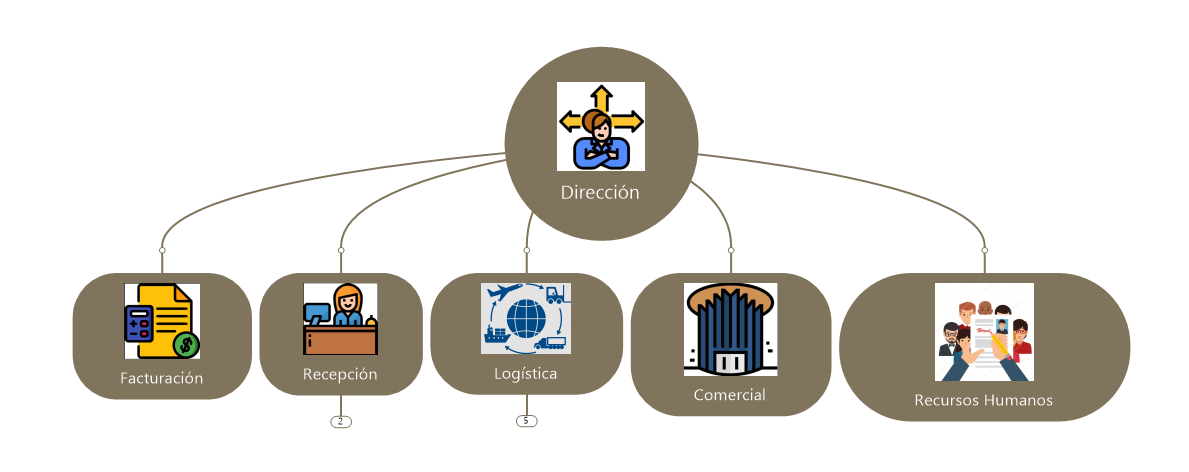
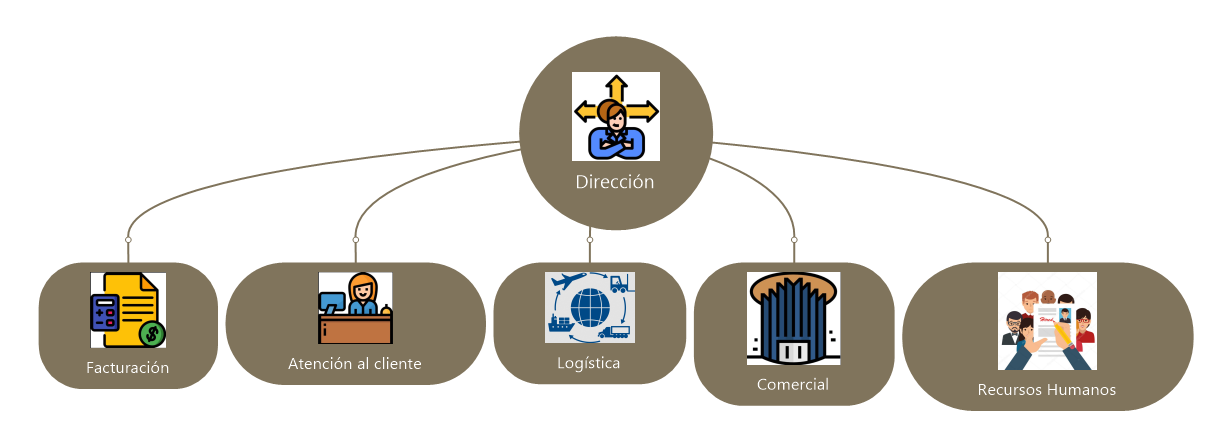
Borrador de OM-2 propuesto.

diff --git a/contido/Tema_1.tex b/contido/Tema_1.tex
@@ -21,17 +21,13 @@ Identificación de los problemas y oportunidades orientadas al conocimiento de l
 
 \textsc{Problemas y Oportunidades} & El conjunto de medios y/o métodos necesarios para llevar a cabo la organización de una empresa, también conocido como logística, tiene una gran relevancia en la misma. Hemos sido contratados por una empresa de paquetería en España (MRW), con el objetivo de desarrollar un sistema inteligente para mejorar su forma de gestionar los recursos de entrega y recogida de paquetería. Si bien es cierto que esta tarea requiere de un conocimiento adquirido mediante la experiencia, su reiteratividad en muchos aspectos facilita una posible automatización. Actualmente, MRW carece de herramienta o sistema que facilite la tarea de asignación de recursos. \\ \hline
 \textsc{Contexto Organizacional} & 
-\begin{enumerate}
-  \item La Misión, visión y objetivos de la organización son:  
-  \begin{enumerate}
-    \item \textbf{Misión:} Una pequeña empresa de distribución de paquetería. 
-    \item \textbf{Visión:} Dando continuidad al sistema de automación de la logística de la empresa, que ya cuenta con un sistema de prioridad de entrega según la ruta asignada. 
-    \item \textbf{Objetivos:} Maximizar al máximo los recursos que posee la empresa para gestionar las paqueterías que se recibe por parte de la central de MRW con el propósito de poder entregar/recoger mayor número de paquetes en un menor costo/tiempo posible. 
-  \end{enumerate}
-  \item Estrategia de organización: Mejorar el servicio que se ofrece a los clientes.
-  \item Escala de valores por la que se rige: obtener el máximo benefício de la gestión de paquetería que la franquicia pueda ofrecer.
-\end{enumerate}    \\ \hline
-\textsc{Soluciones} & La solución que se propone es desarrollar un sistema que puede calcular de forma inteligente los recursos que posee la empresa, es decir, maximizar la cantidad de paquetes que pueda llevar cada coche o furgoneta según la ruta asignada.\\
+MRW es una importante empresa de paquetería y logística con envíos internacionales de paquetes de diversos tipos, cuya partida hay que planificar, dando continuidad al sistema de automación de la logística de la empresa, que ya cuenta con un sistema de prioridad de entrega según la ruta asignada con el fin de lograr correctamente el cometido: maximizar los recursos que posee la empresa para gestionar las paqueterías que se recibe por parte de la central de MRW con el propósito de entregar/recoger el mayor número de paquetes en el menor tiempo y coste posibles. 
+
+Dicha organización se rige por la obtención del máximo beneficio de la gestión de la paquetería que la franquicia pueda obtener, mientras brinda la mejor calidad del servicio que pueda ofrecer a sus clientes. Además, los valores diferenciales 
+con los que identifican son la fiabilidad, calidad, rapidez, innovación, capilaridad, sostenibilidad y cercanía.
+
+La empresa cuenta con 550 franquicias y 58 plataformas logísticas en Andorra, España, Gibraltar y Portugal y realiza una media de 70 millones de envíos anuales. Su modelo organizativo se divide en diversos departamentos con funciones claramente diferenciadas (Facturación, Recepción, Logística, Comercial, RR.HH)\\ \hline
+\textsc{Soluciones} & La solución que se propone es desarrollar un sistema que pueda calcular de forma inteligente y óptima los recursos que posee la empresa, es decir, optimizar la gestión de los paquetes que cada vehículo pueda llevar.\\
 \hline
 \end{tabularx}
   %\label{tab.OM1}
@@ -51,29 +47,41 @@ Descripción de los aspectos de la organización que tienen impacto y/o se ven a
 \begin{tabularx}{\textwidth}{|l|X|} \hline
 \textbf{Modelo de Organización} & \textbf{Formulario OM-2: Aspectos Variables} \\ \hline\hline
 
-\textsc{Estructura} & Se presenta un gráfico de la parte de la organización (Figura \ref{fig:diagramaEstructura}) bajo análisis en términos de departamentos, grupos, unidades\dots\\ \hline
+\textsc{Estructura} & La organización de la empresa MRW se puede ver en la figura (Figura \ref{fig:diagramaEstructura}), donde se puede observar un primer departamento encargado de la dirección del resto de departamentos (Facturación, Recepción, Logística, Comercial y Recursos Humanos). \\ &
+\begin{itemize}
+  \item Facturación: Departamento encargado de emitir y entregar factura por las actividades realizadas en el desarrollo de la actividad empresarial.
+  \item Atención al cliente: Departamento encargado de la atención al cliente, donde esos clientes pueden recoger o entregar paquetes in situ.
+  \item Logística: Departamento encargado de todas las actividades relacionadas con la distribución, tanto de los paquetes como de los envíos de la propia paquetería.
+  \item Comercial: Departamento encargado de dar a conocer los productos o servicios que comercializa la empresa a través de acciones publicitarias y de promoción, de actualizar los productos en función de las necesidades y cambios en el mercado o de gestionar las relaciones con los clientes.
+  \item Recursos Humanos: Departamento encargado de la gestión de los recursos humanos de la organización.
+\end{itemize} \\ \hline
 
-\textsc{Procesos} & Abrir operativas en el mercado de Forex\\ \hline
-\textsc{Personal} &  Todos los miembros de nuestra Startup está composto por profesionales altamente cualificados, todos trabajan en cada parte del proyecto utilizando una metodologia Scrum.\\ \hline
+\textsc{Procesos} & El proceso de distribución de la paquetería se puede descomponer en X fases principales: \\ &\begin{enumerate}
+  \item determinar los recursos de MRW (paquete, personal, transporte, rutas de transporte).
+  \item generar la dsitribución de la paquetería en los medios de transporte disponibles.
+  \item revisión y validación de la distribución de la paquetería.
+\end{enumerate} \\ \hline
+\textsc{Personal} &  Los trabajadores encargados de escanear los paquetes para otorgar al sistema información de los mismos y aquellos encargados de repartir en los vehículos (repartidores) pueden o no ser los mismos. Toda la plantilla estaría conformada de trabajadores desde baja cualificación en adelante (sin restricción).
+
+Además, estos estarán liderados por un director.
+\\ \hline
 \textsc{Recursos} &  Describir los recursos utilizados por los procesos:
 \begin{enumerate}
     \item Sistemas de información y otros recursos computacionales:
     \begin{enumerate}
-      \item Sistema inteligente de predicción
-      \item Sistema de apertura de operativa en el mercado.
-      \item Base de datos de mercado Forex.
-      \item Apoyo de herramientas de lectura de mercado
+      \item Sistema inteligente.
+      \item Base de datos de paquetes.
+      \item Base de datos de flota de vehículos.
     \end{enumerate}
     \item Equipamiento y material.
     \begin{enumerate}
-      \item Sistema informático
+      \item Infraestructura informática (escáneres, teléfonos móviles).
       \item Conexión a Internet.
-      \item Servidor de conexión con el mercado financiero.
     \end{enumerate}
 \end{enumerate}
 \\ \hline
-\textsc{Conocimiento} &  Un experto/s en especulación en mercado de divisas.\\ \hline
-\textsc{Cultura y Potencial} &  Todos los miembros tiene la misma responsabilidad dentro del proyecto. La comunicación, cordialidad y el respecto mutuo es la tónica más importante para el desarrollo del proyecto.\\ \hline
+\textsc{Conocimiento} &  Experto/s en logística especializado/s en la distribución de paquetería \\ \hline
+\textsc{Cultura y Potencial} &  Los colaboradores de la empresa tiene funciones específicas, es decir, hay una persona que se encarga de la atención al cliente, otra persona se encarga de gestionar la logística y los repartidores se encargan de efectuar la entrega/recogida de la paquetería según la ruta asignada por logística. La comunicación, cordialidad y el respecto mutuo es la tónica más importante para el desarrollo de la actividad.\\ \hline
 \end{tabularx}
   %\label{tab.OM2}
   \caption{\label{tab:OM2}Descripción del área de interés de la organización - OM2}
